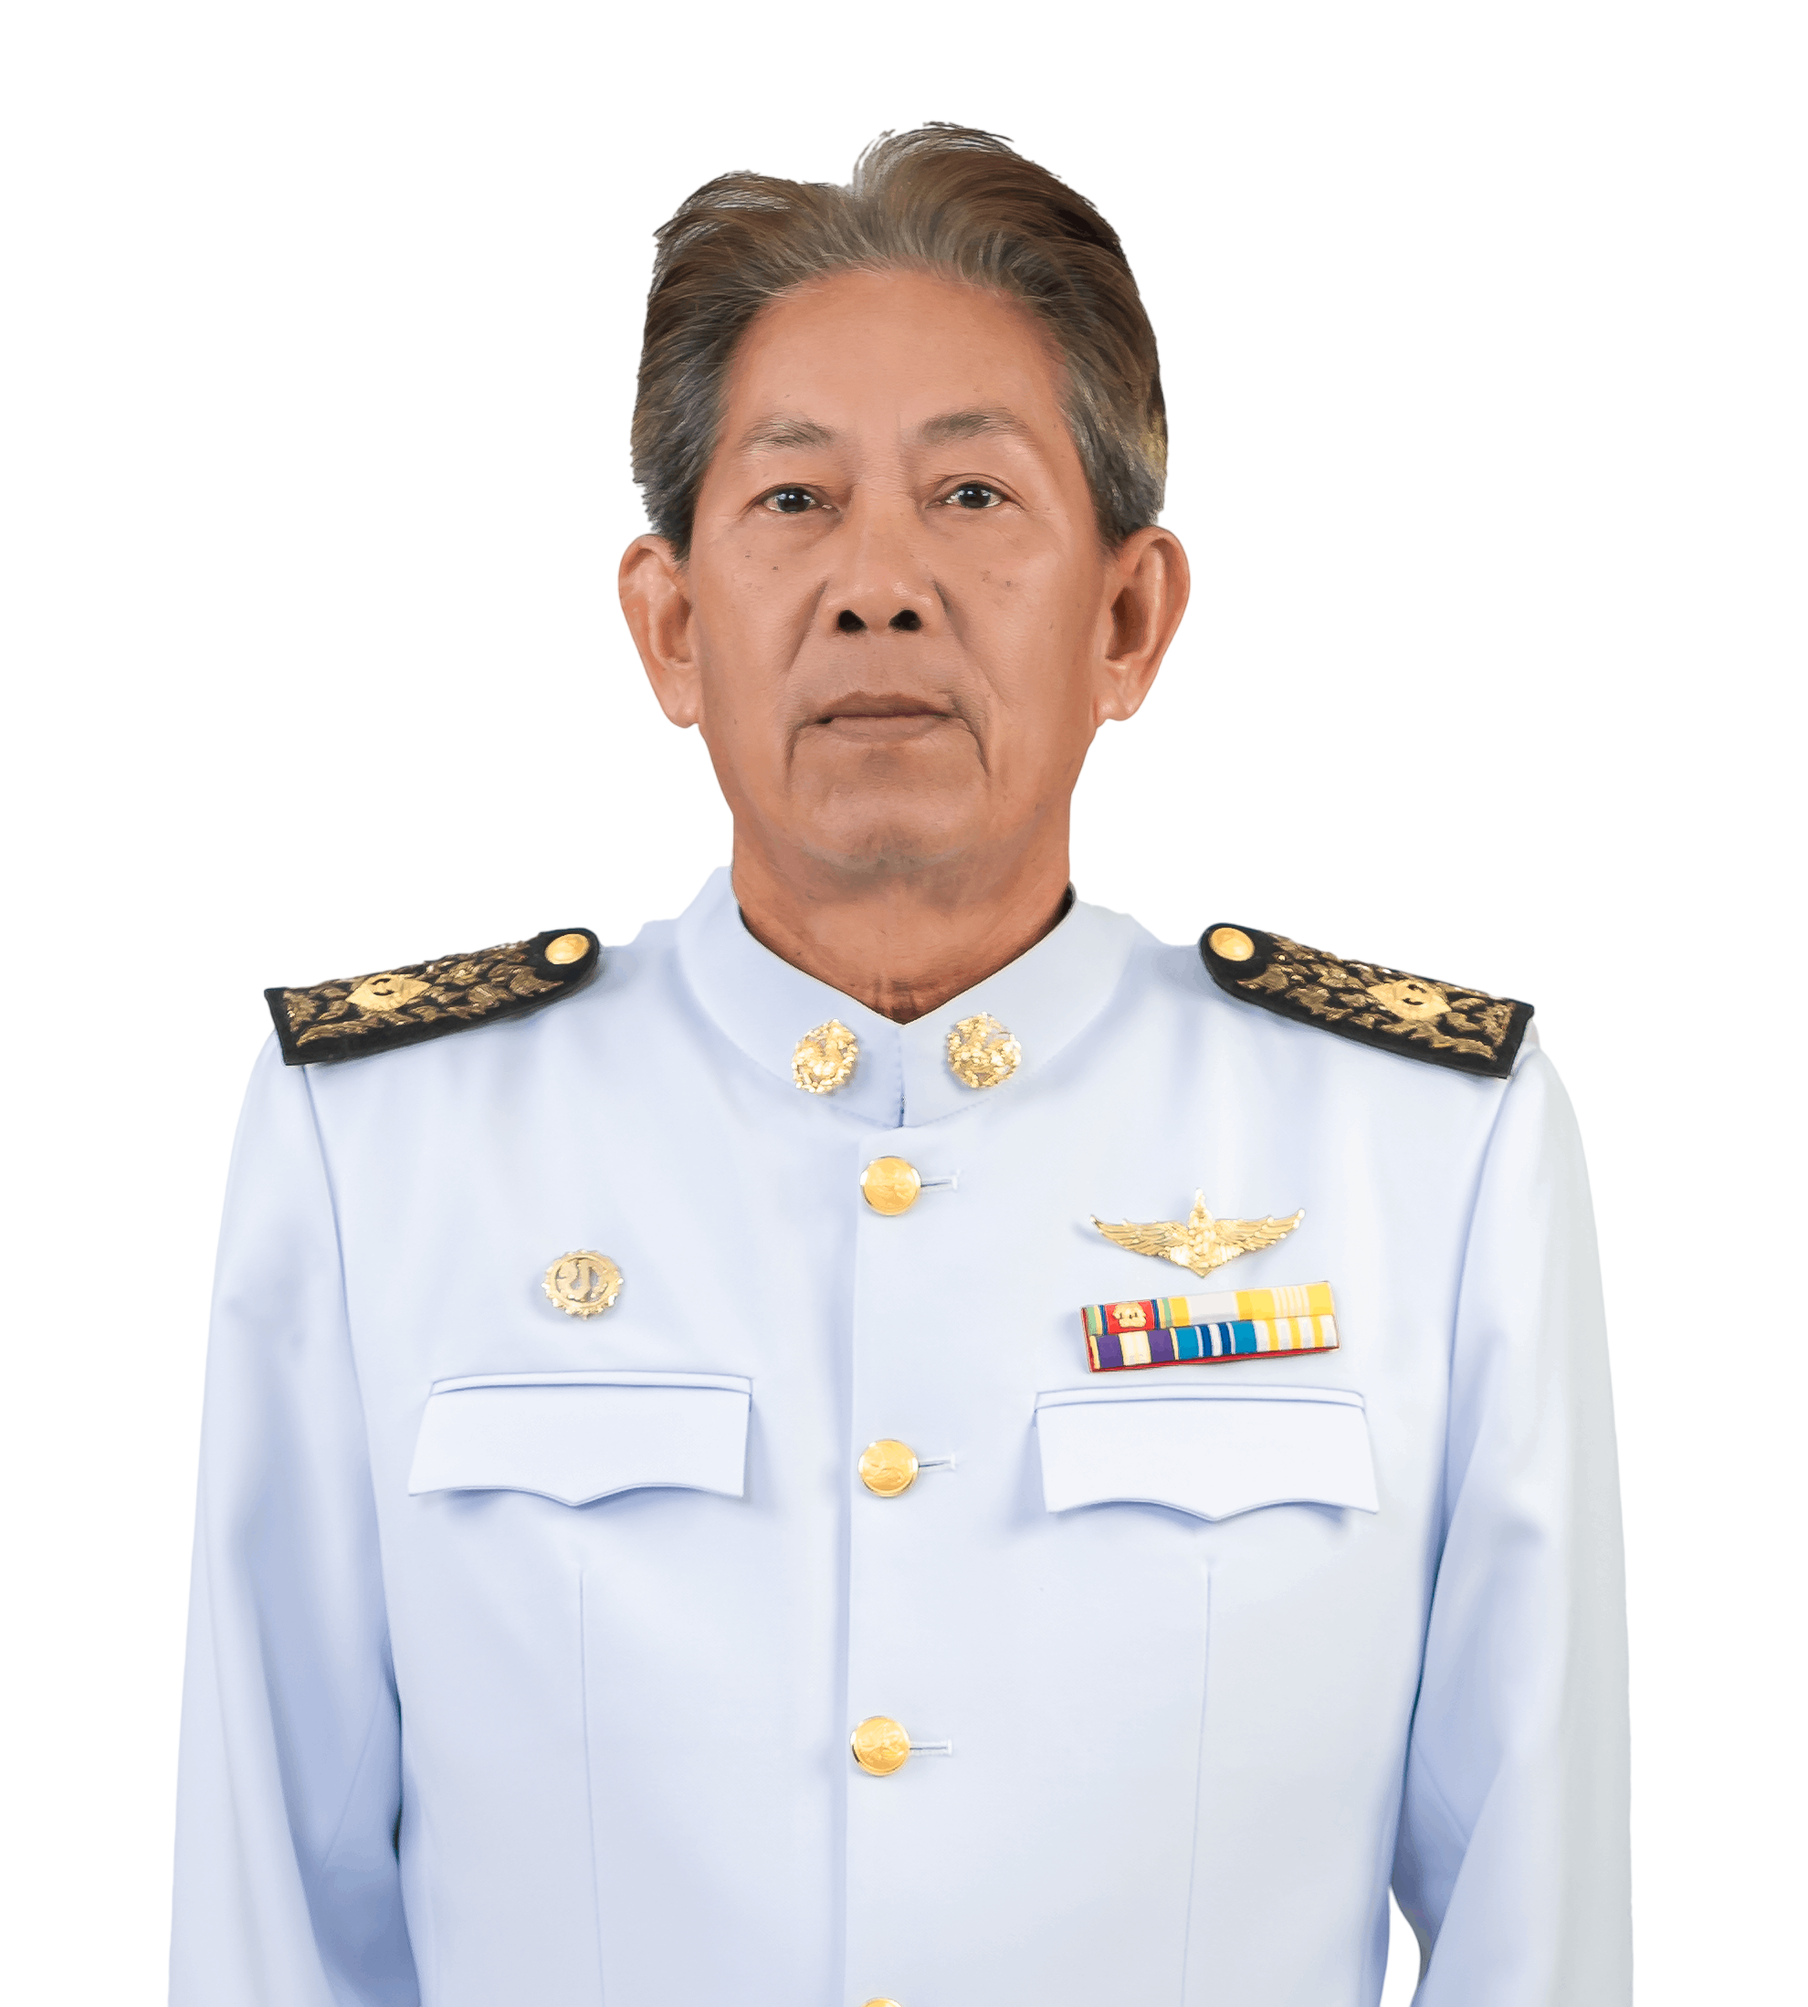
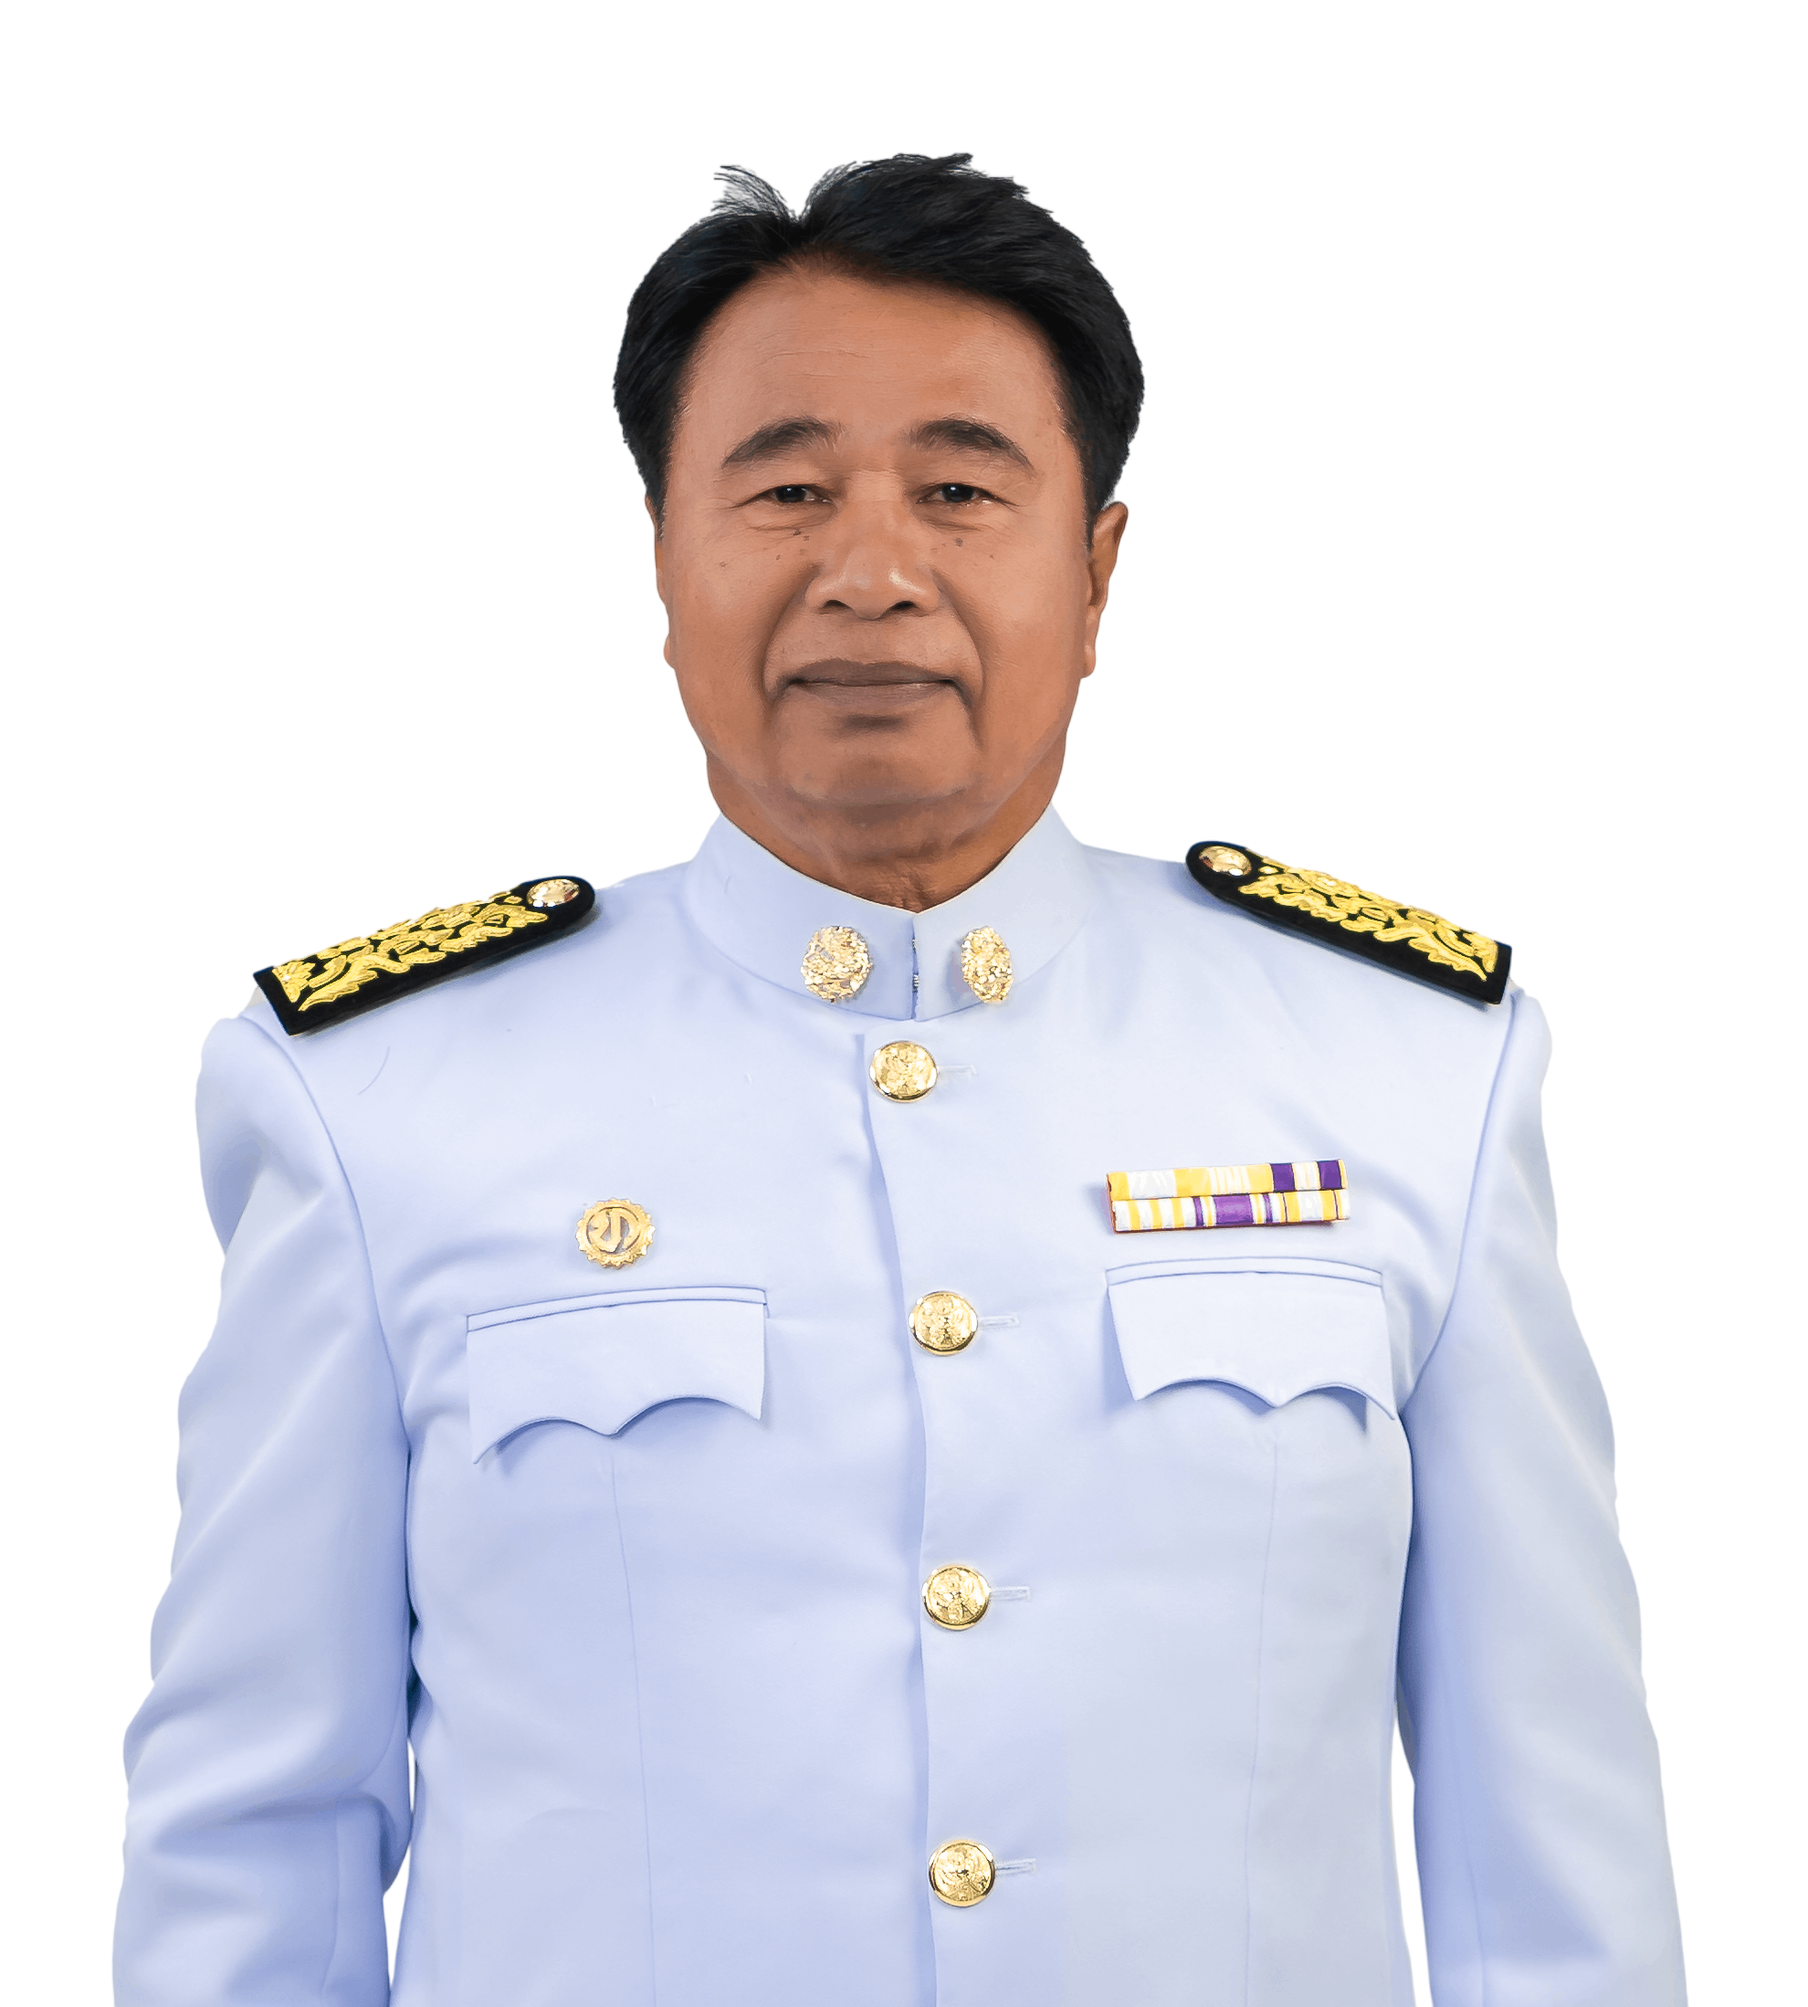
update layout 20260605

Changed region(s): [[0.0616, 0.0619, 0.9551, 1.0], [0.8318, 0.8044, 0.8626, 0.8662]]

diff --git a/resources/views/data/contact/index.blade.php b/resources/views/data/contact/index.blade.php
@@ -52,12 +52,13 @@
                     <button type="submit" class="btn btn-primary px-5">บันทึก</button>
                 </div>
             </form>
-            <div class="mt-3">
-                 <iframe class="fb-page"
+            <div class="mt-3"  style="display: flex;justify-content: center;">
+                 {{-- <iframe class="fb-page"
                     src="https://www.facebook.com/plugins/page.php?href=https%3A%2F%2Fwww.facebook.com%2Fthakam.go.th&tabs=timeline&width=340&height=750&small_header=false&adapt_container_width=true&hide_cover=false&show_facepile=true&appId=6174507855916076"
                     width="340" height="750" style="border:none;overflow:hidden" scrolling="no" frameborder="0"
                     allowfullscreen="true"
-                    allow="autoplay; clipboard-write; encrypted-media; picture-in-picture; web-share"></iframe>
+                    allow="autoplay; clipboard-write; encrypted-media; picture-in-picture; web-share"></iframe> --}}
+                    <iframe src="https://www.google.com/maps/embed?pb=!1m18!1m12!1m3!1d3877.938011469614!2d101.07942617934569!3d13.600598201317679!2m3!1f0!2f0!3f0!3m2!1i1024!2i768!4f13.1!3m3!1m2!1s0x311d3d003d705b77%3A0x3cf46533314b8b10!2z4LmA4LiX4Lio4Lia4Liy4Lil4LiV4Liz4Lia4Lil4Lia4LmJ4Liy4LiZ4LmC4Lie4LiY4Li04LmM!5e0!3m2!1sth!2sth!4v1780671174377!5m2!1sth!2sth" width="700" height="450" style="border:0;" allowfullscreen="" loading="lazy" referrerpolicy="no-referrer-when-downgrade"></iframe>
             </div>
 
         </div>

diff --git a/resources/views/layouts/app.blade.php b/resources/views/layouts/app.blade.php
@@ -395,15 +395,14 @@
                     </div>
                     <div class="link-footer-two">
                         <a href="/home">หน้าแรก</a>
-                        <a href="/webboard/menu/75">กระดานกระทู้</a>
-                        <a href="/contact/menu/74">ติดต่อ</a>
+                        <a href="/webboard/menu/56">กระดานกระทู้</a>
+                        <a href="/contact/menu/55">ติดต่อ</a>
                         <a href="/Sitemap">แผนผังเว็บไซต์</a>
-                        <a href="https://eservice-thakam.sosmartsolution.com/FormeService/id/1"
-                            target="_blank">รับเเจ้งเรื่องราวร้องเรียนร้องทุกข์</a>
+                        <a href="/complaint/menu/35" target="_blank">รับเเจ้งเรื่องราวร้องเรียนร้องทุกข์</a>
                     </div>
                 </div>
                 <div class="footer-ma">
-                    <a href="http://webmail.thakam.go.th" target="_blank"><img src="/img/13Footer/1.png"
+                    <a href="" target="_blank"><img src="/img/13Footer/1.png"
                             alt="" width="250"></a>
                     <a href=""><img src="/img/13Footer/2.png" alt="" width="250"></a>
                     <a href=""><img src="/img/13Footer/3.png" alt="" width="250"></a>
